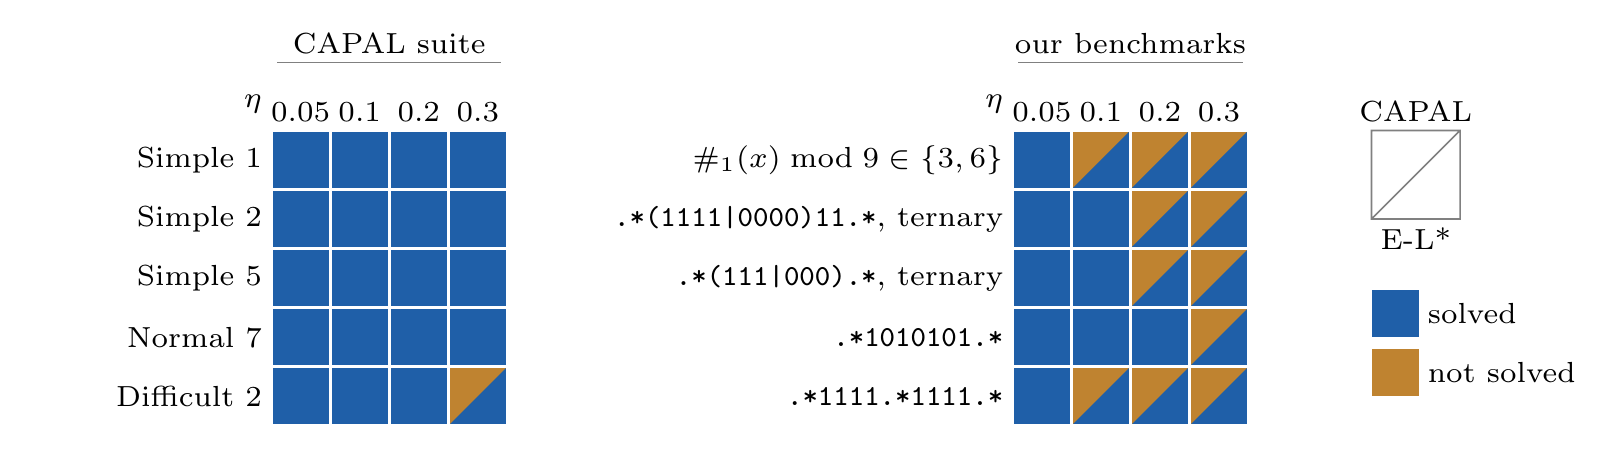
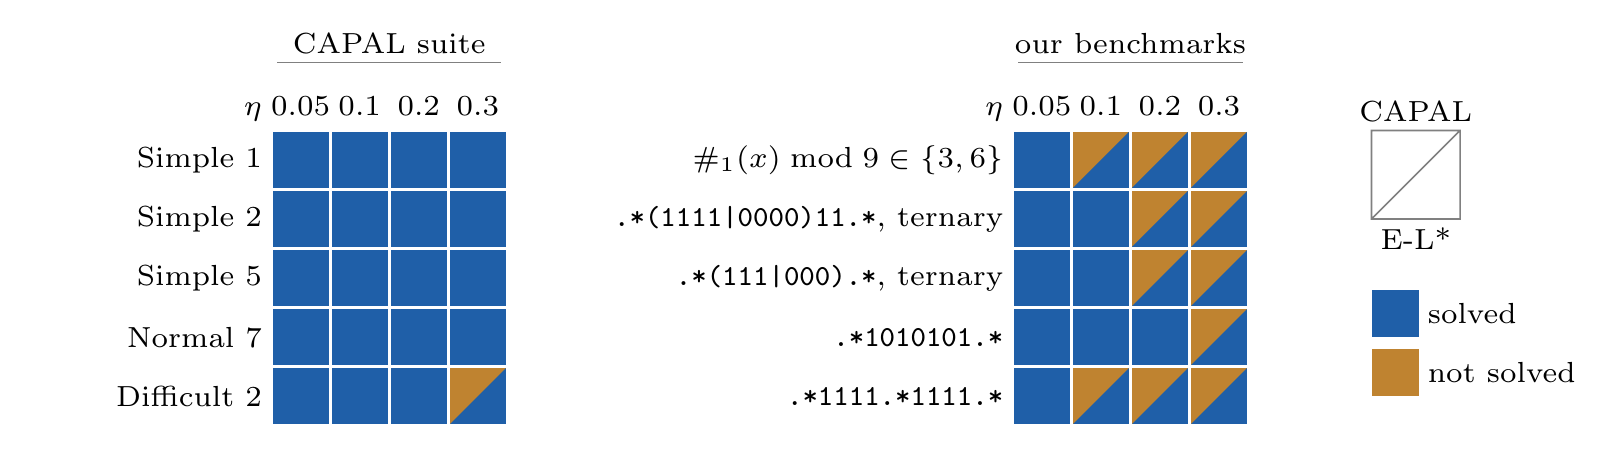
Put eta on the same baseline as the grid's column headers

Changed region(s): [[0.5904, 0.2163, 0.7769, 0.2781], [0.1554, 0.2163, 0.3108, 0.2781]]

diff --git a/orthogonal_dfa/experiments/capal_comparison/figures.py b/orthogonal_dfa/experiments/capal_comparison/figures.py
@@ -317,9 +317,9 @@ GRID_MACROS = r"""\definecolor{bgsolved}{HTML}{1F5FA8}
     \draw[white, line width=0.8pt] (#1, -#2 - 1) rectangle +(1, 1);
 }
 \def\bgtarget#1#2{\node[anchor=east, font=\scriptsize, inner sep=2pt] at (0, -#1 - 0.5) {#2};}
-\def\bgeta#1#2{\node[anchor=south, font=\scriptsize, inner sep=2pt] at (#1 + 0.5, 0) {#2};}
+\def\bgeta#1#2{\node[anchor=base, font=\scriptsize, inner sep=0pt] at (#1 + 0.5, 0.25) {#2};}
 \def\bgtitle#1#2{
-    \node[anchor=east, font=\scriptsize, inner sep=2pt] at (0, 0.45) {$\eta$};
+    \node[anchor=base east, font=\scriptsize, inner sep=2pt] at (0, 0.25) {$\eta$};
     \draw[black!50] (0.1, 1.15) -- (#1 - 0.1, 1.15);
     \node[anchor=south, font=\scriptsize, inner sep=2pt] at (#1 / 2, 1.15) {#2};
 }"""

diff --git a/figures/capal-comparison/benchmark_grid.tex b/figures/capal-comparison/benchmark_grid.tex
@@ -6,9 +6,9 @@
     \draw[white, line width=0.8pt] (#1, -#2 - 1) rectangle +(1, 1);
 }
 \def\bgtarget#1#2{\node[anchor=east, font=\scriptsize, inner sep=2pt] at (0, -#1 - 0.5) {#2};}
-\def\bgeta#1#2{\node[anchor=south, font=\scriptsize, inner sep=2pt] at (#1 + 0.5, 0) {#2};}
+\def\bgeta#1#2{\node[anchor=base, font=\scriptsize, inner sep=0pt] at (#1 + 0.5, 0.25) {#2};}
 \def\bgtitle#1#2{
-    \node[anchor=east, font=\scriptsize, inner sep=2pt] at (0, 0.45) {$\eta$};
+    \node[anchor=base east, font=\scriptsize, inner sep=2pt] at (0, 0.25) {$\eta$};
     \draw[black!50] (0.1, 1.15) -- (#1 - 0.1, 1.15);
     \node[anchor=south, font=\scriptsize, inner sep=2pt] at (#1 / 2, 1.15) {#2};
 }
